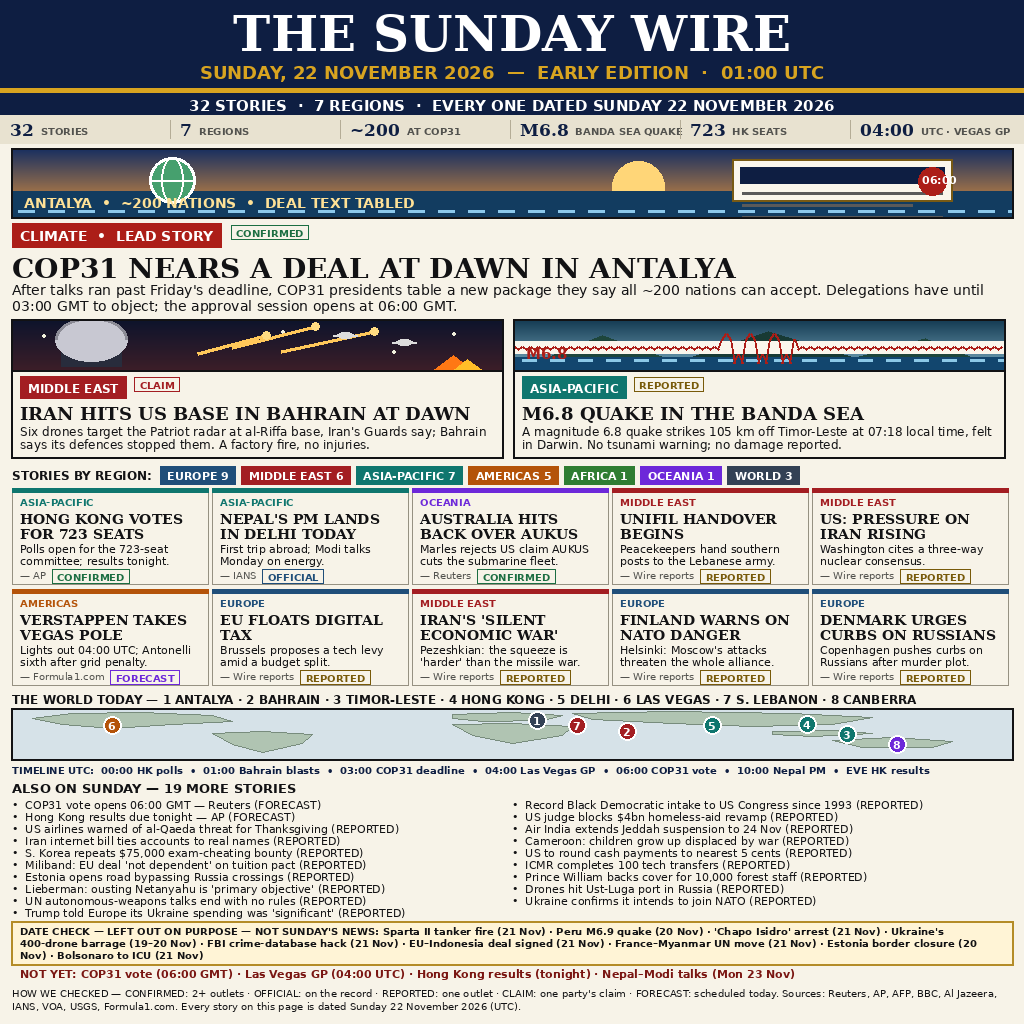
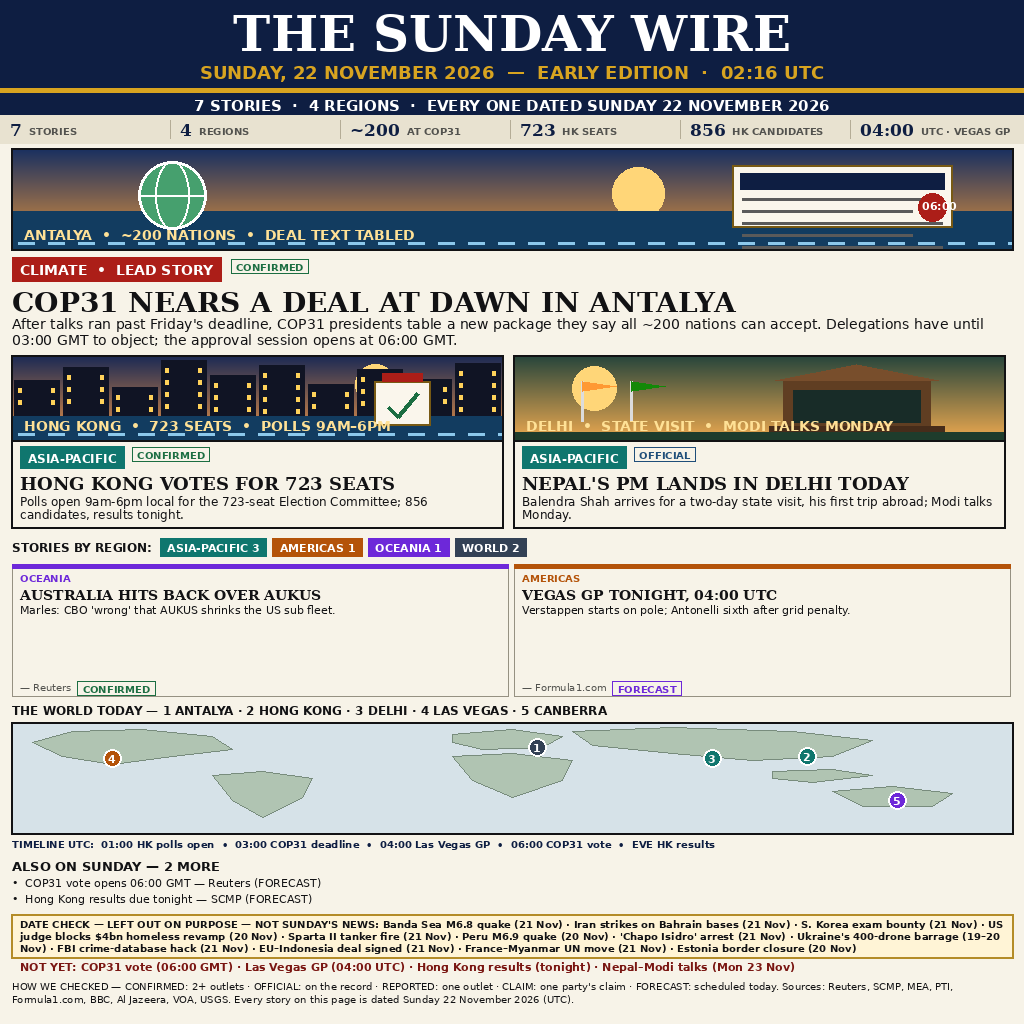
Fix fallback: drop wrong-dated Bahrain + Banda Sea features, 7 verified stories
- F2 Bahrain and F3 Banda Sea M6.8 were 21 Nov events presented as 22 Nov
  news (quake: 21 Nov 09:42 UTC, not 22 Nov 07:18 Dili; Bahrain story
  merged two different attacks, 15 Nov + 21 Nov) — moved to DATE CHECK
- New features, verified 2+ outlets, 22 Nov UTC: Hong Kong votes for
  723 seats (SCMP/REO), Nepal PM lands in Delhi (MEA/PTI)
- Cards: AUKUS (Reuters) + Vegas GP tonight as FORECAST (Formula1.com);
  dropped 6 single-aggregator REPORTED cards and 17 REPORTED one-liners
  (5 proven wrong-dated, incl. inverted Estonia claim)
- 7 stories, 4 regions; title updated accordingly

diff --git a/main.py b/main.py
@@ -2,8 +2,8 @@
 """Entry for make.fun news-image-20261122: copy the front page to /output.
 
 The image (entry.png, 1024x1024, hand-drawn with Pillow by the builder)
-sums up the world's news of Sunday 22 November 2026: 32 dated stories
-across 7 regions, led by the COP31 deal taking shape in Antalya.
+sums up the world's news of Sunday 22 November 2026: 7 dated stories
+across 4 regions, led by the COP31 deal taking shape in Antalya.
 Standard library only; deterministic: the same bytes every run.
 """
 import os

diff --git a/README.md b/README.md
@@ -1,17 +1,19 @@
 # news-image-20261122 — THE SUNDAY WIRE
 
 One image summing up the world's news of **Sunday 22 November 2026**:
-32 dated stories across 7 regions, led by the COP31 climate deal taking
-shape at dawn in Antalya, Iran's dawn drone attack on a US base in
-Bahrain, and a magnitude 6.8 quake in the Banda Sea.
+7 dated stories across 4 regions, led by the COP31 climate deal taking
+shape at dawn in Antalya, with Hong Kong voting for 723 seats and Nepal's
+PM landing in Delhi, plus Australia's AUKUS rebuttal and the Las Vegas GP
+tonight.
 
 Every story on the page happened, or was first reported, on Sunday
 22 November 2026 (UTC). Anything from 21 November or earlier — the
-Sparta II tanker fire, the Peru quake, the "Chapo Isidro" arrest, the
-Ukraine barrage, the FBI database hack, the EU–Indonesia deal — is
-named in the DATE CHECK box as deliberately left out, not presented as
-Sunday's news. Claims carry their label (CONFIRMED / OFFICIAL /
-REPORTED / CLAIM / FORECAST) and their source.
+Banda Sea M6.8 quake, the Iran strikes on Bahrain bases, the Sparta II
+tanker fire, the Peru quake, the "Chapo Isidro" arrest, the Ukraine
+barrage, the FBI database hack, the EU–Indonesia deal — is named in the
+DATE CHECK box as deliberately left out, not presented as Sunday's news.
+Claims carry their label (CONFIRMED / OFFICIAL / REPORTED / CLAIM /
+FORECAST) and their source.
 
 The image is hand-drawn with Pillow (no photos); `main.py` (Python 3.13,
 standard library only) copies it to `/output/entry.png`, deterministically.
